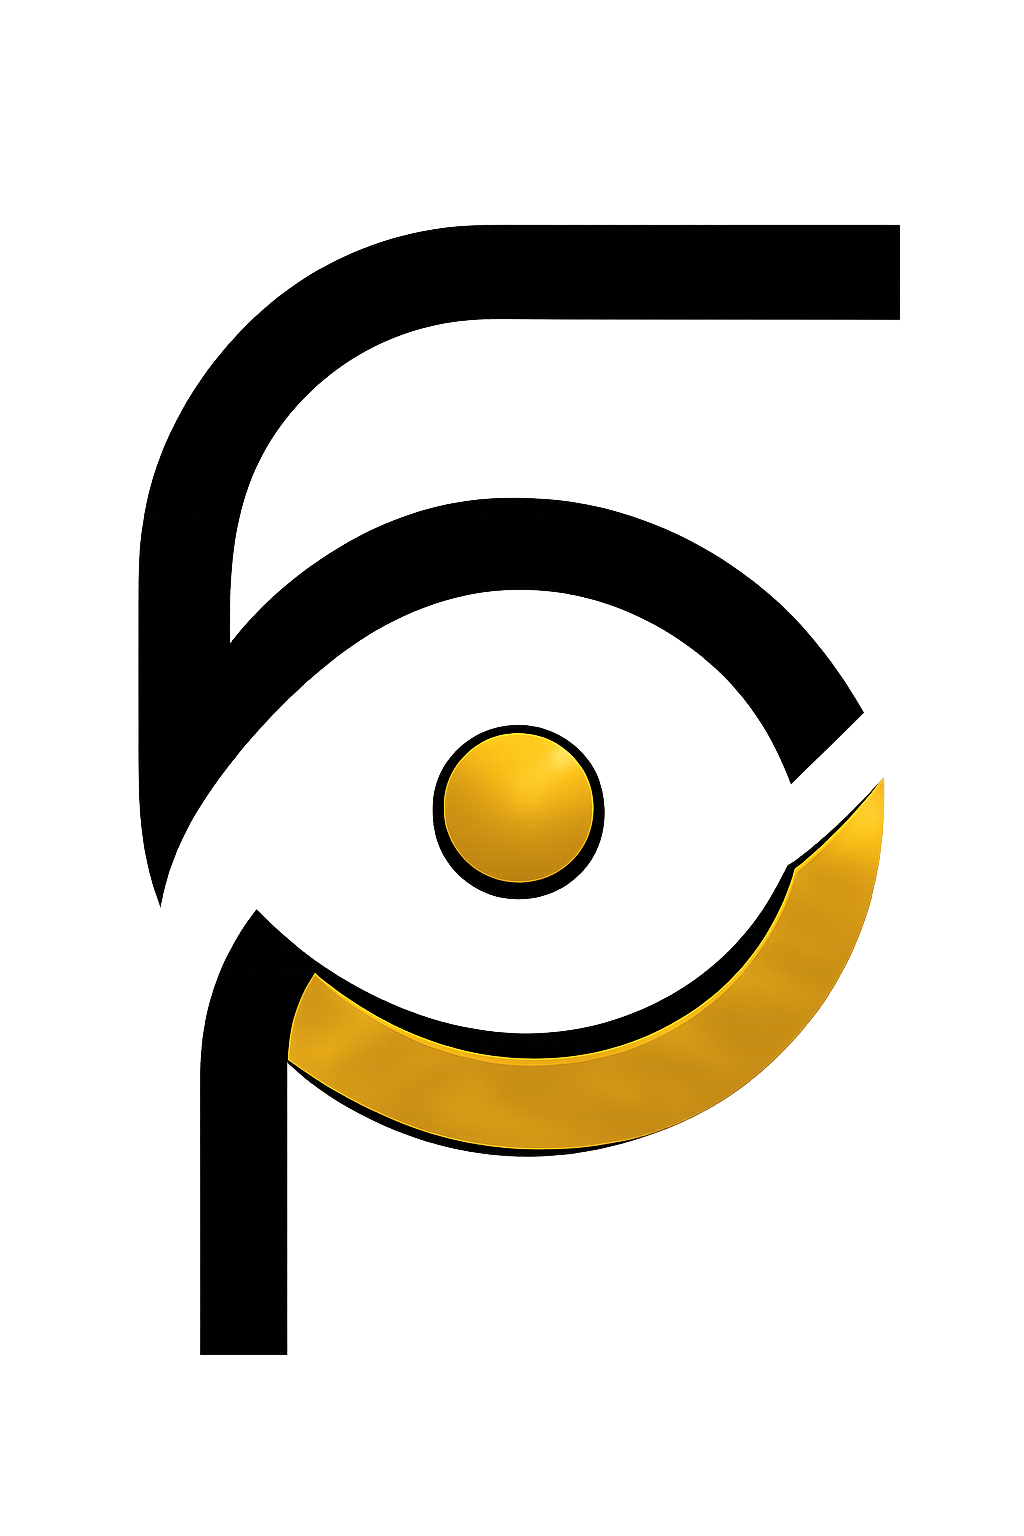
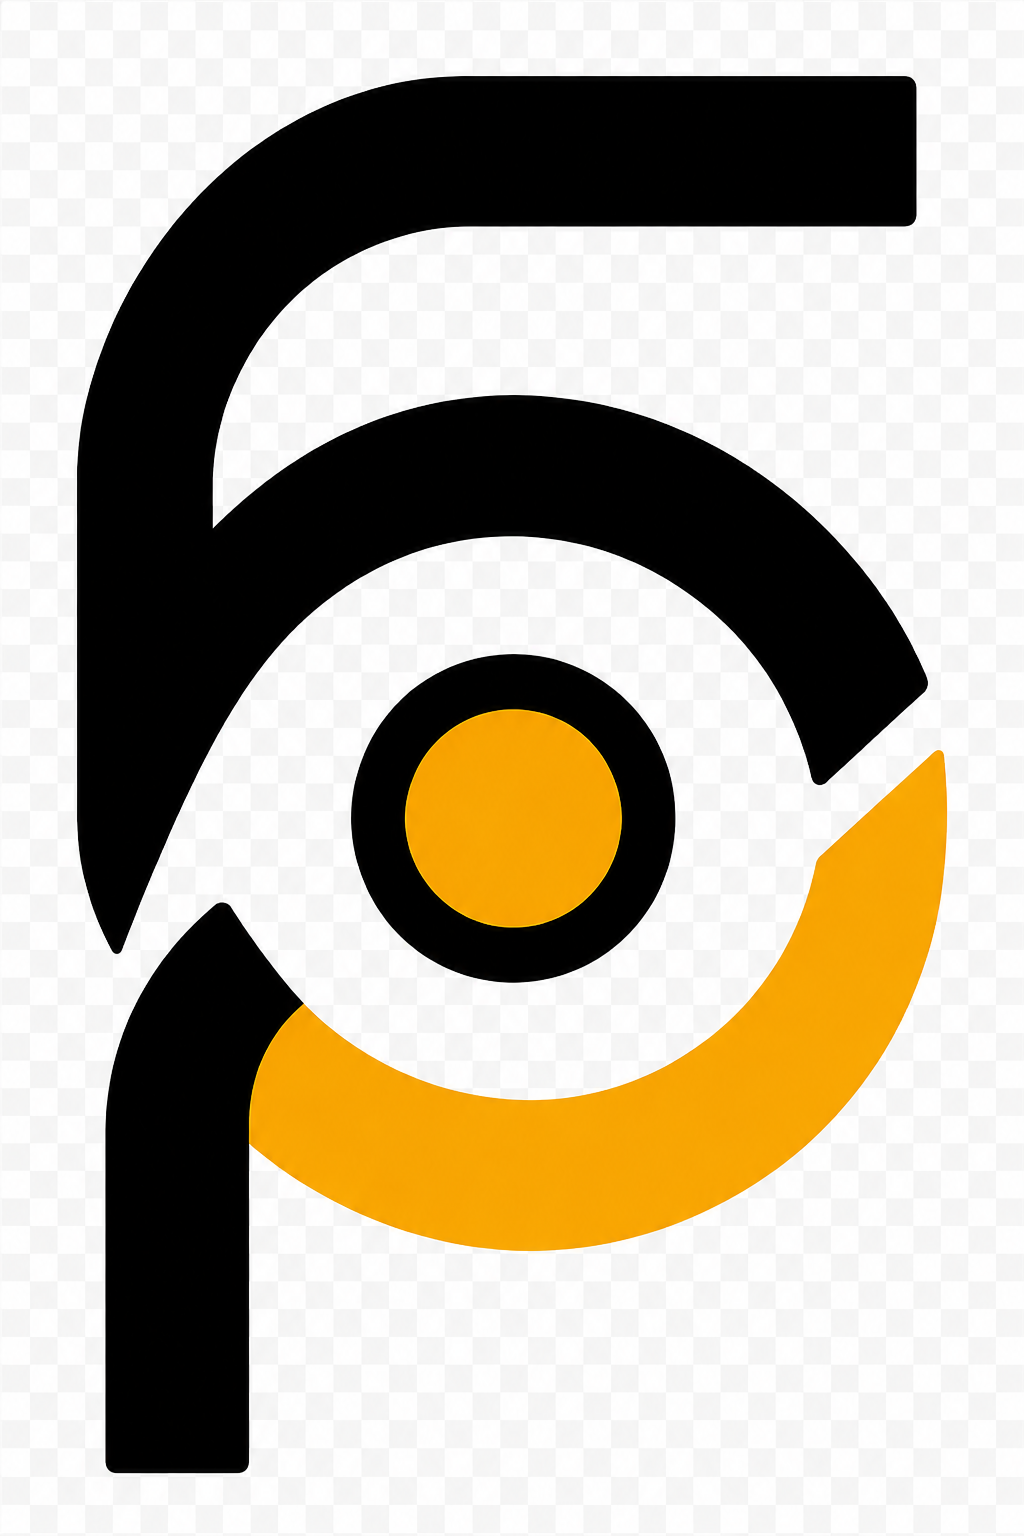
Tighten news query to trusted sources, add manual refresh button

diff --git a/src/App.jsx b/src/App.jsx
@@ -402,18 +402,16 @@ function WordmarkText({ size = 34 }) {
   return (
     <div style={{ display: "flex", flexDirection: "column", gap: 6 }}>
       <div style={{ display: "flex", gap: "0.22em" }}>
-        <span style={{ fontFamily: "'Space Grotesk', sans-serif", fontWeight: 700, fontSize: size, color: COLORS.black, lineHeight: 1 }}>FORE</span>
-        <span style={{ fontFamily: "'Space Grotesk', sans-serif", fontWeight: 700, fontSize: size, color: COLORS.gold, lineHeight: 1 }}>SECURE</span>
+        <span style={{ fontFamily: "'Space Grotesk', sans-serif", fontWeight: 700, fontSize: size, color: COLORS.black, lineHeight: 1 }}>Fore</span>
+        <span style={{ fontFamily: "'Space Grotesk', sans-serif", fontWeight: 700, fontSize: size, color: COLORS.gold, lineHeight: 1 }}>Secure</span>
       </div>
-      <div style={{ fontSize: size * 0.34, color: COLORS.black, letterSpacing: "0.001em", textTransform: "uppercase", display: "flex", alignItems: "center", gap: 8 }}>
-        <span>SECURITY ADVISORY</span><span>|</span><span>RISK INSIGHTS</span><span>|</span><span>STRATEGIC SECURITY</span>
-      </div>
-      <img src="/images/brand/underline.png" alt="" style={{ width: "100%", height: "auto", display: "block", marginTop: 2 }} />
+      
+      <img src="/images/brand/underline.jpg" alt="" style={{ width: "100%", height: Math.max(3, Math.round(size * 0.2)), display: "block", marginTop: 2}} />
     </div>
   );
 }
 
-function BrandLogo({ height = 34 }) {
+function BrandLogo({ height = 45 }) {
   return (
     <div style={{ display: "flex", alignItems: "center", gap: Math.round(height * 0.3) }}>
       <img